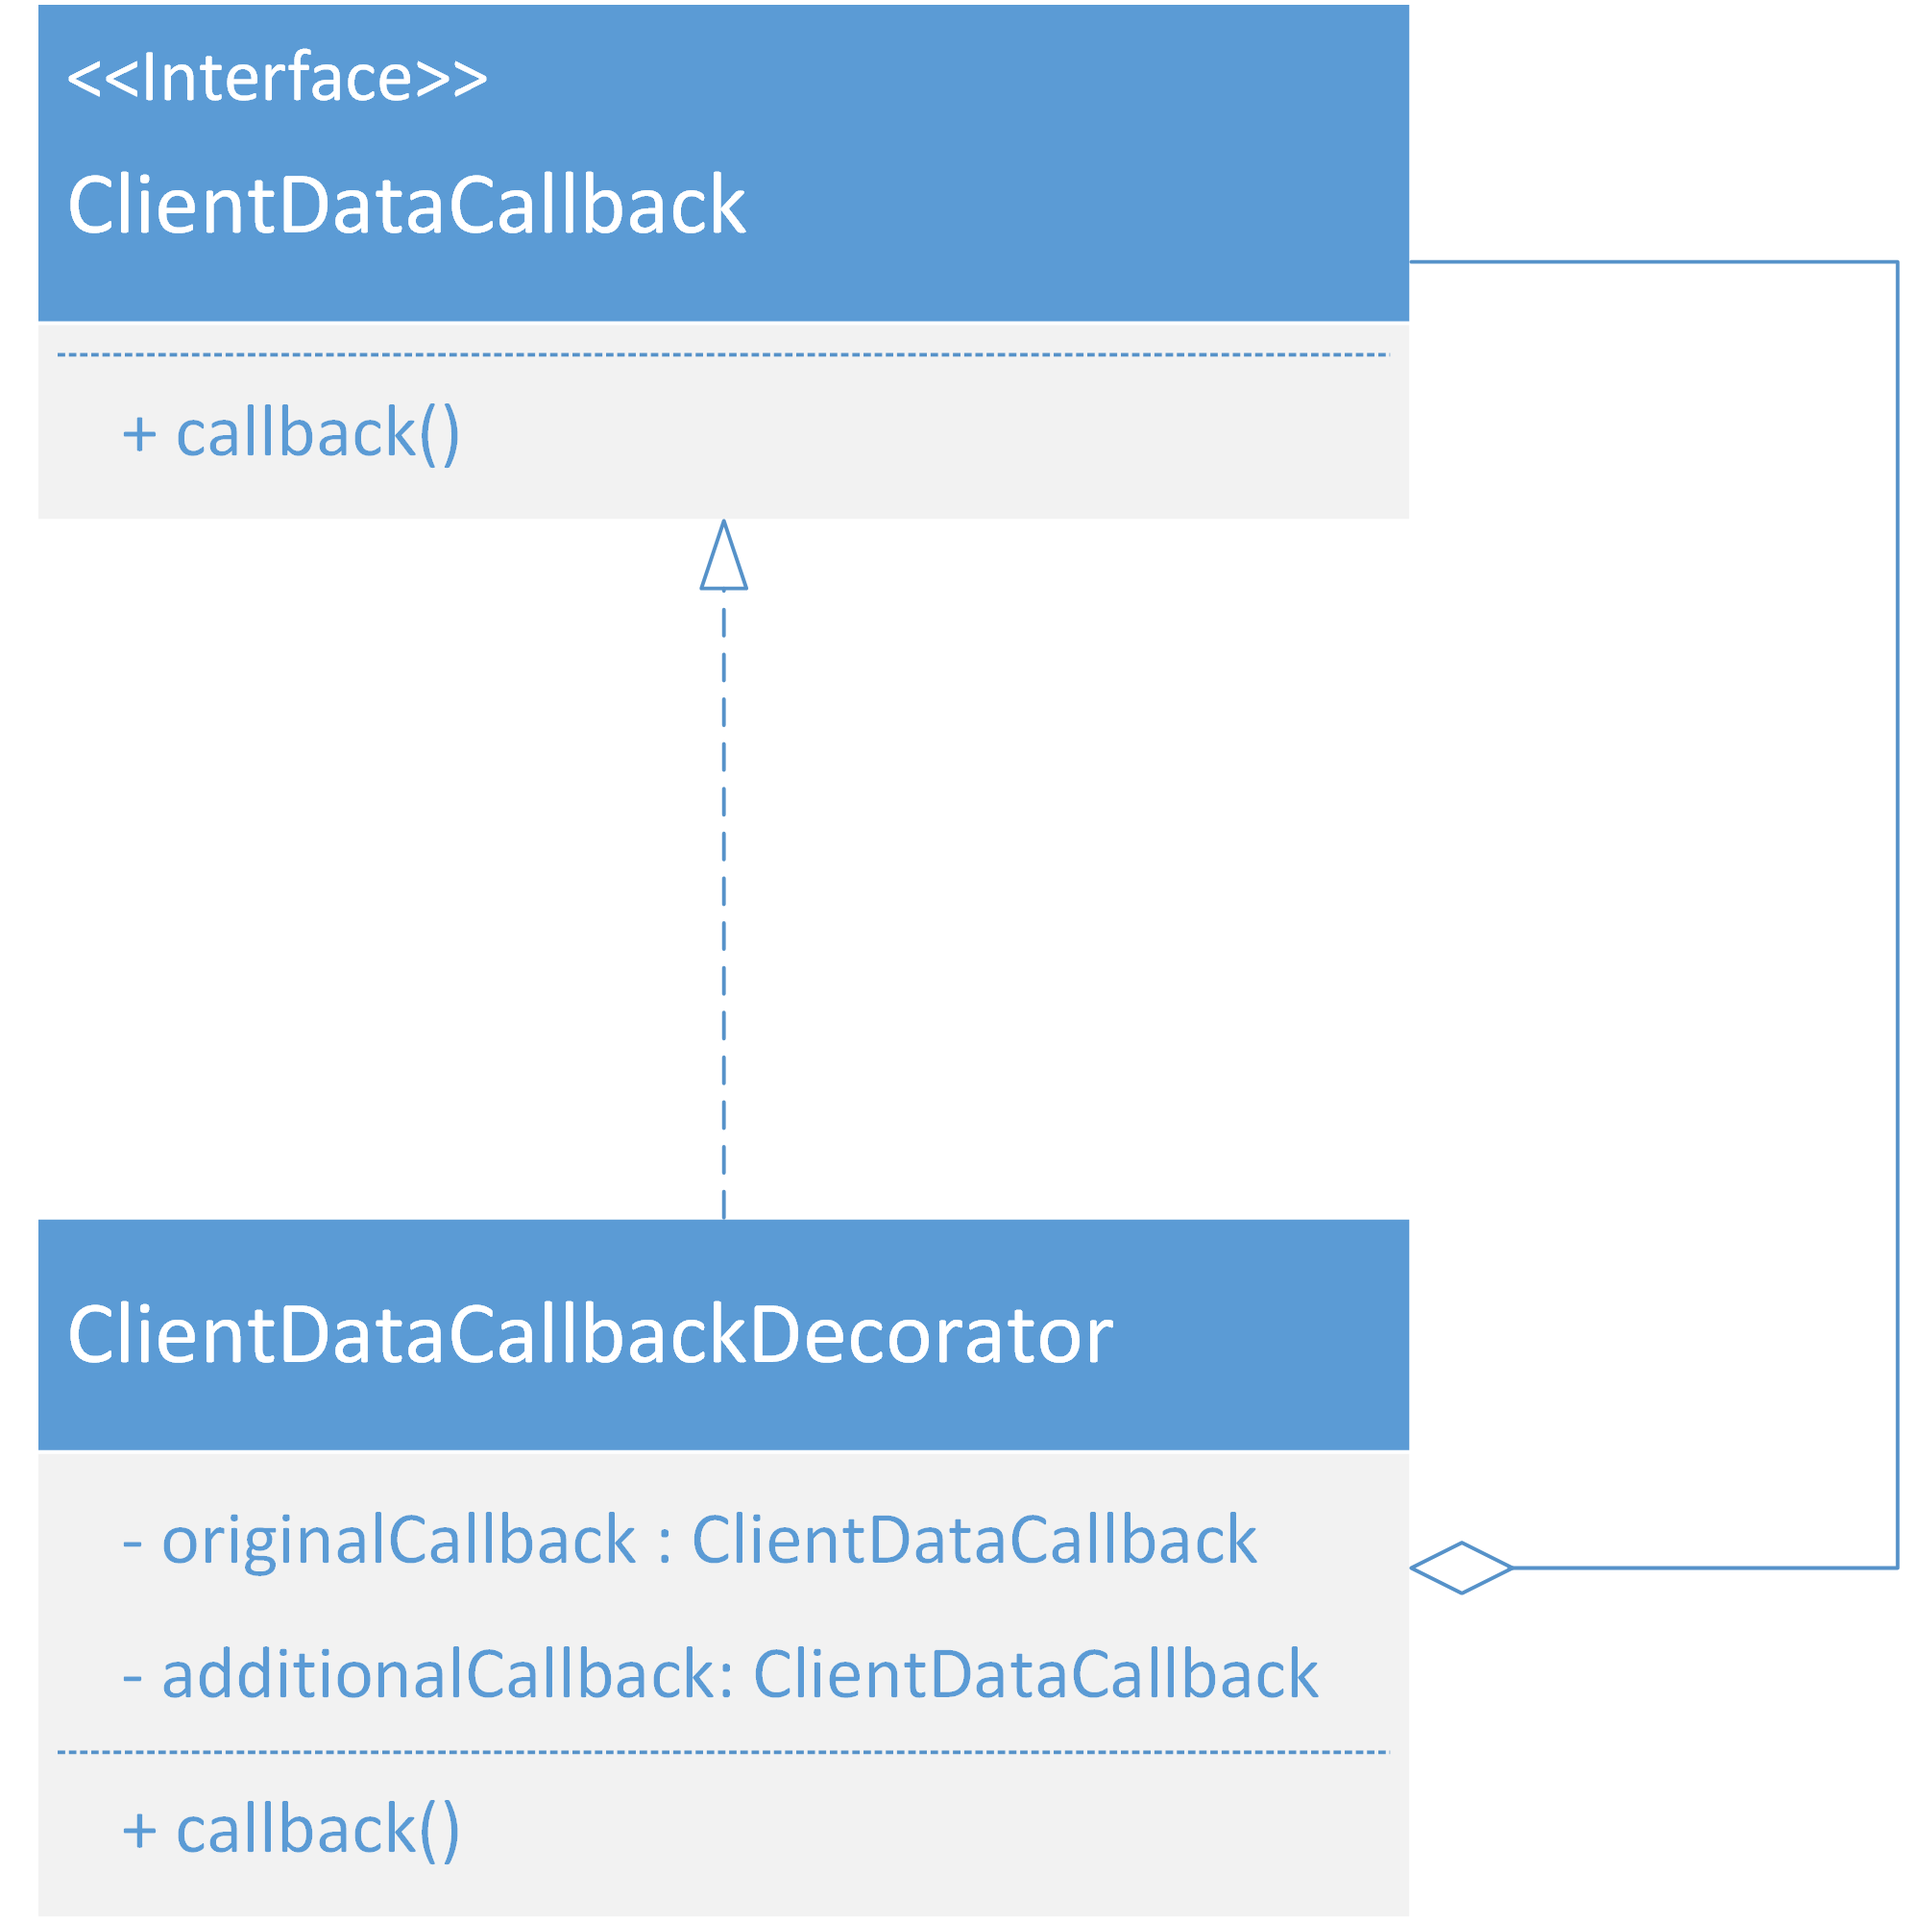
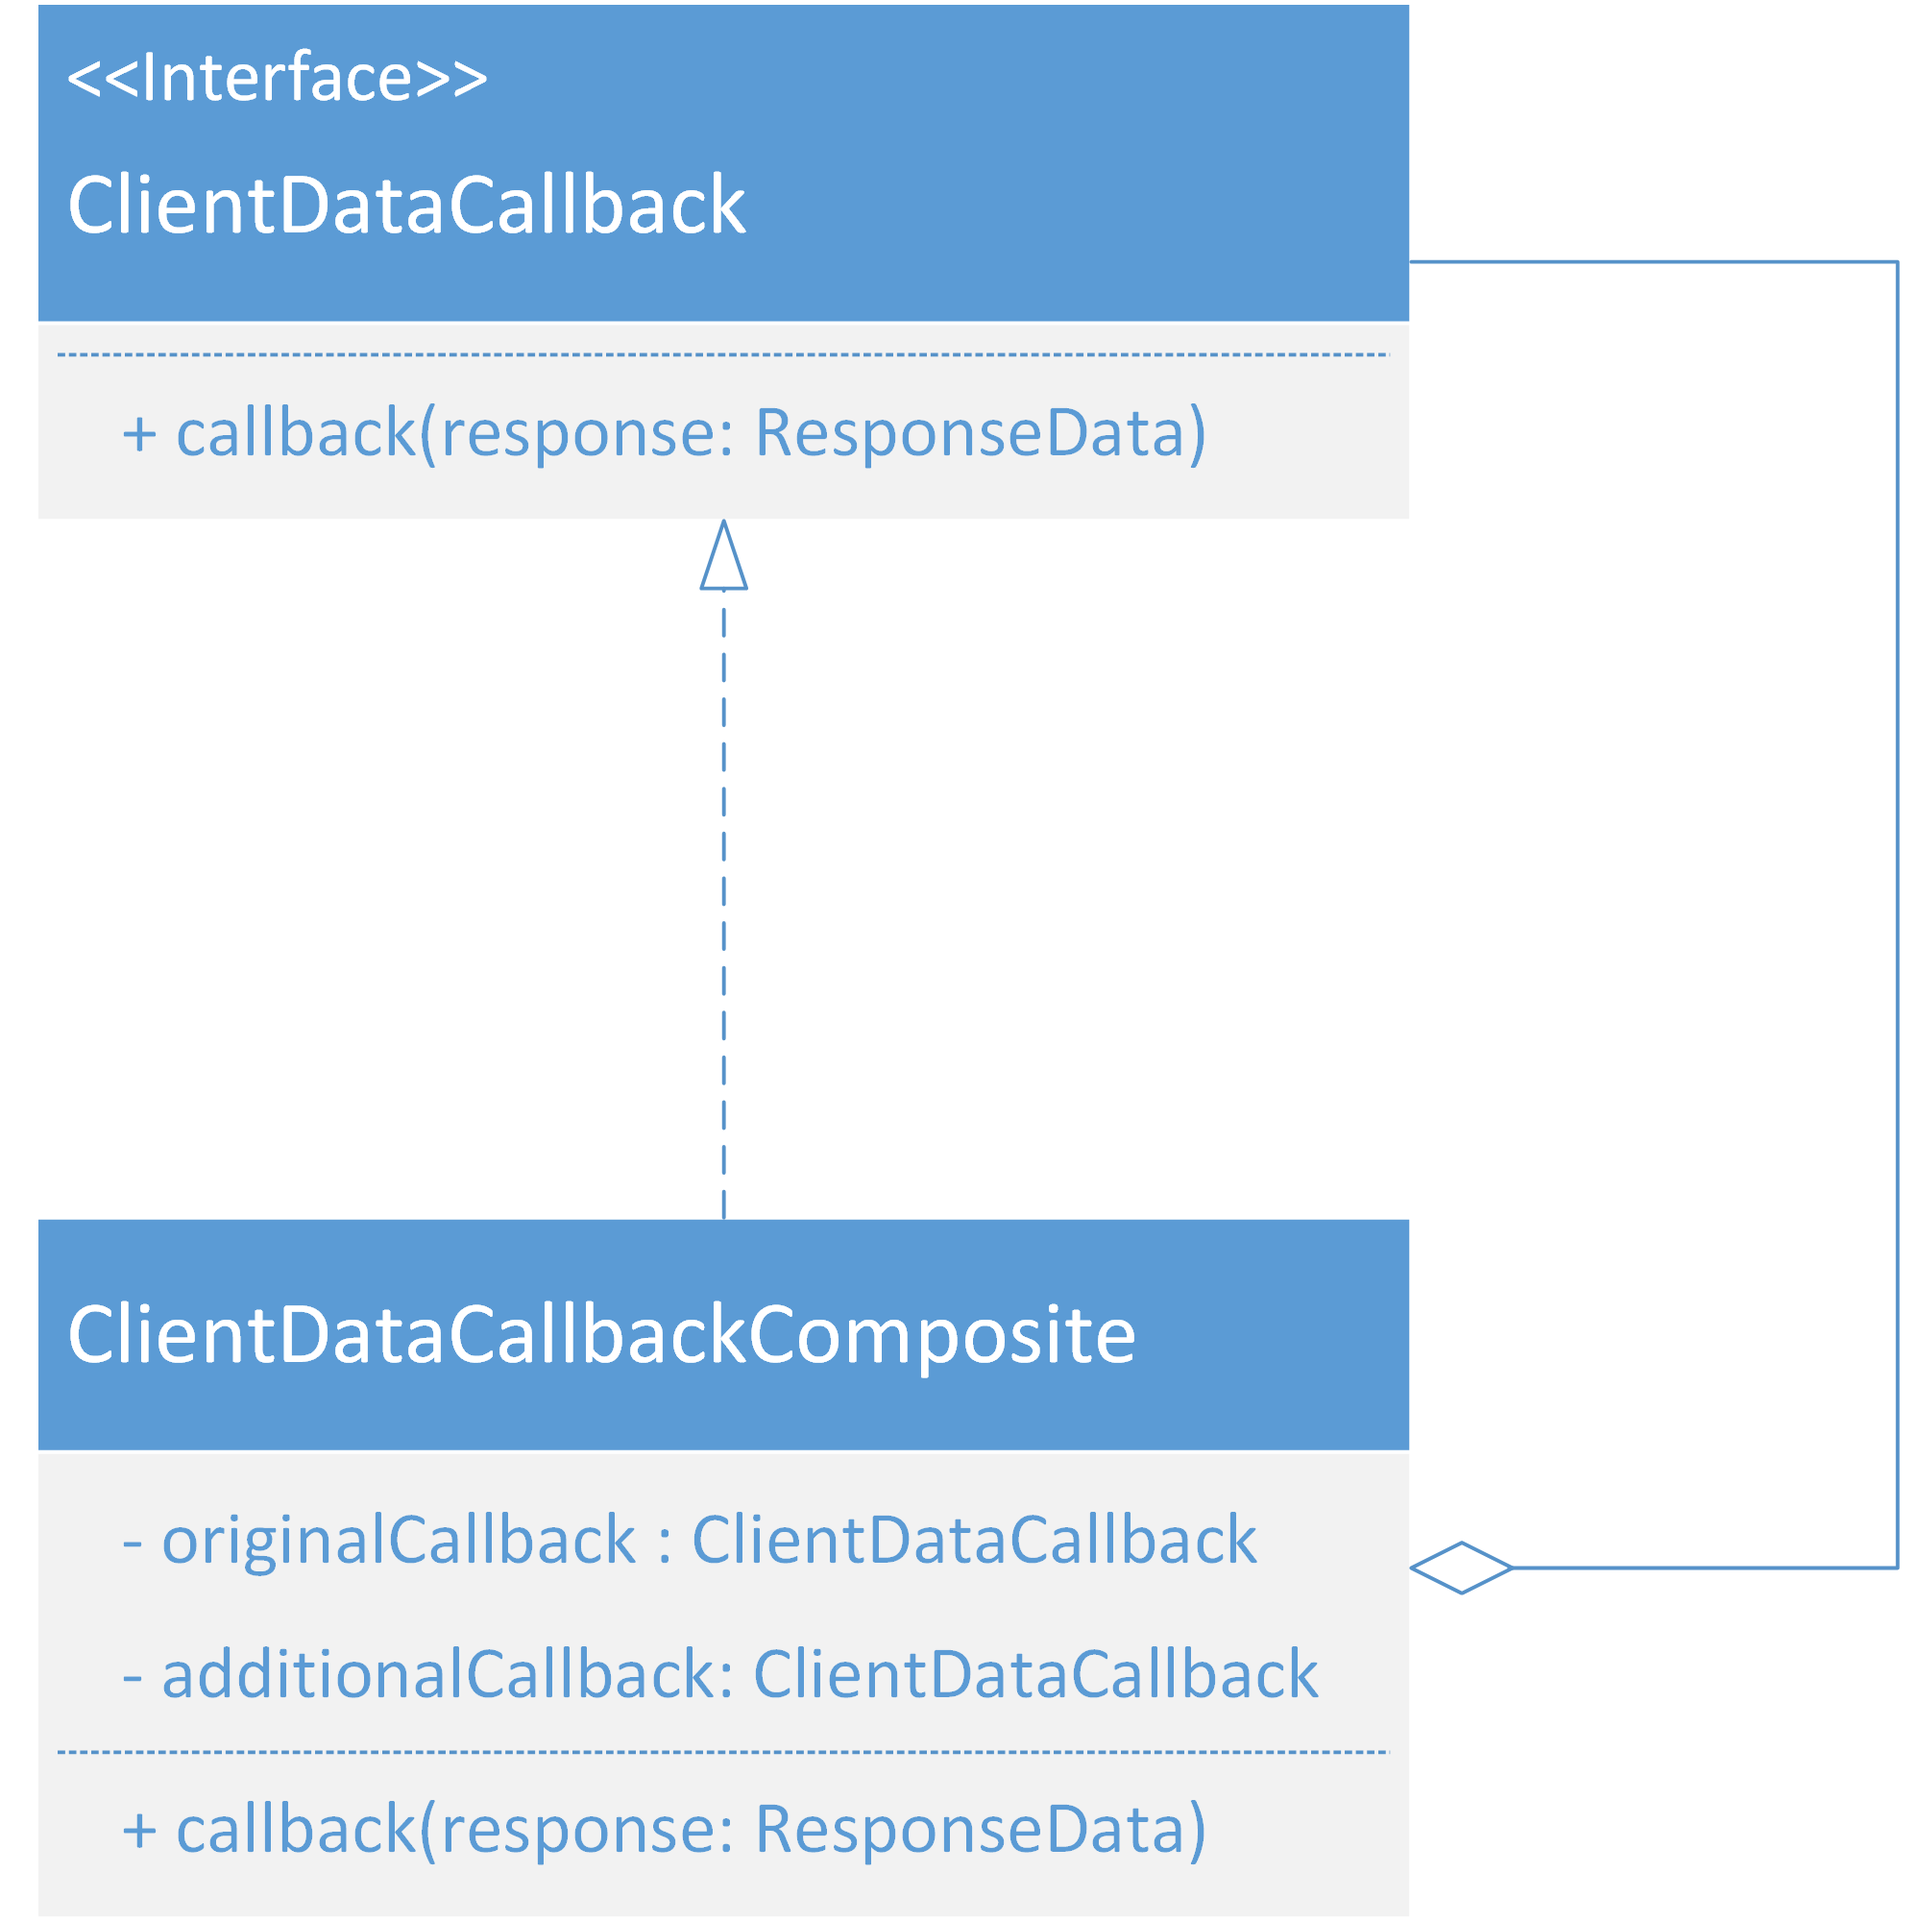
Add: Documentation Composite

Changed region(s): [[0.217, 0.93, 0.62, 0.961], [0.217, 0.217, 0.62, 0.248], [0.403, 0.682, 0.589, 0.713]]

diff --git a/dhbw_doc/sources/entwurfsmuster.tex b/dhbw_doc/sources/entwurfsmuster.tex
@@ -10,8 +10,26 @@ Deshalb werden in den folgenden Abschnitten insbesondere auch die Abweichungen v
 
 \section{Composite}
 
+Das \textbf{Composite} ist ein Strukturmuster, das es dem Verwender erlaubt, ein komplexes Objekt genauso zu verwenden wie ein einfaches Objekt.
+Ein komplexes Objekt kann dabei aus einem oder mehreren Objekten bestehen, wobei ein solches Kind selbst wieder ein komplexes Objekt sein kann.
+Im Gegensatz dazu besteht ein einfaches Objekt nicht aus mehreren Kindobjekten.
+So können zum Beispiel auch Baumstrukturen abgebildet werden.
+Der große Vorteil des Musters ist, dass der Verwender nicht unbedingt wissen muss, ob es sich um ein einfaches oder komplexes Objekt handelt
+\cite[pp.~142--155]{geirhos2015entwurfsmuster}.
+\newline
+Das hier aufgeführte Anwendungsbeispiel umfasst das Interface \textit{ClientDataCallback} und die Klasse \textit{ClientDataCallbackComposite}, die das Interface implementiert.
+Das Interface stellt eine Callback-Methode bereit, die ein Objekt vom Typ \textit{ResponseData} entgegennimmt.
+Das ClientDataCallbackComposite wurde eingeführt, um es zu ermöglichen, mehrere Callback-Methoden mit einem Funktionsaufruf ausführen zu können.
+Dies wird insbesondere benötigt, um die ResponseData-Objekte mit denen die Callback-Methoden aufgerufen werden im lokalen Cache ablegen zu können.
+Die Funktionalität, ein Objekt in den Cache einzufügen wird demnach als einfache Callback-Methode übergeben und kann mit einer anderen Callback-Methode zusammen in einem Objekt gehalten werden.
+\newline
+Da das Composite-Muster dem Decorator-Muster strukturell sehr ähnlich ist, wurde die Klasse ClientDataCallbackDecorator auch erst mit Commit \href{https://github.com/lukaspanni/OpenSourceStats/commit/2198284a8f90a76a0e0a2e99f9be87855595458e}{2198284} in ClientDataCallbackComposite umbenannt, um klarer zu machen, was der Zweck dieser Klasse ist.
+Ein Decorator wird eher dazu verwendet einem Objekt zur Laufzeit neues Verhalten hinzuzufügen, anstatt ein komplexes Objekt aus mehreren Einzelobjekten zusammenzusetzen \cite[pp.~155-169]{geirhos2015entwurfsmuster}.
+Da der Zweck der Anwendung des Musters, gezeigt in Abbildung \ref{fig:pattern_composite}, ist, beliebig viele Callbacks mit nur einem Methodenaufruf ausführen zu können, wurde hier die Bezeichnung Composite gewählt.
+Durch die sehr große strukturelle Ähnlichkeit der Muster könnte man in diesem einfachen Fall aber auch für die Benennung Decorator argumentieren.
+
 \begin{figure}[h]
-    \includegraphics[scale=0.4]{pattern_composite.png}
+    \includegraphics[scale=0.5]{pattern_composite.png}
     \centering
     \caption{Umsetzung des Composite Patterns}
     \label{fig:pattern_composite}
@@ -26,4 +44,3 @@ Deshalb werden in den folgenden Abschnitten insbesondere auch die Abweichungen v
     \caption{Umsetzung des Strategy-Patterns}
     \label{fig:pattern_strategy}
 \end{figure}
-

diff --git a/dhbw_doc/sources/Dokumentation.tex b/dhbw_doc/sources/Dokumentation.tex
@@ -60,7 +60,6 @@
 
 \input{ddd}
 
-\input{api_design}
 
 \bibliographystyle{ieeetr}
 \bibliography{sources}
